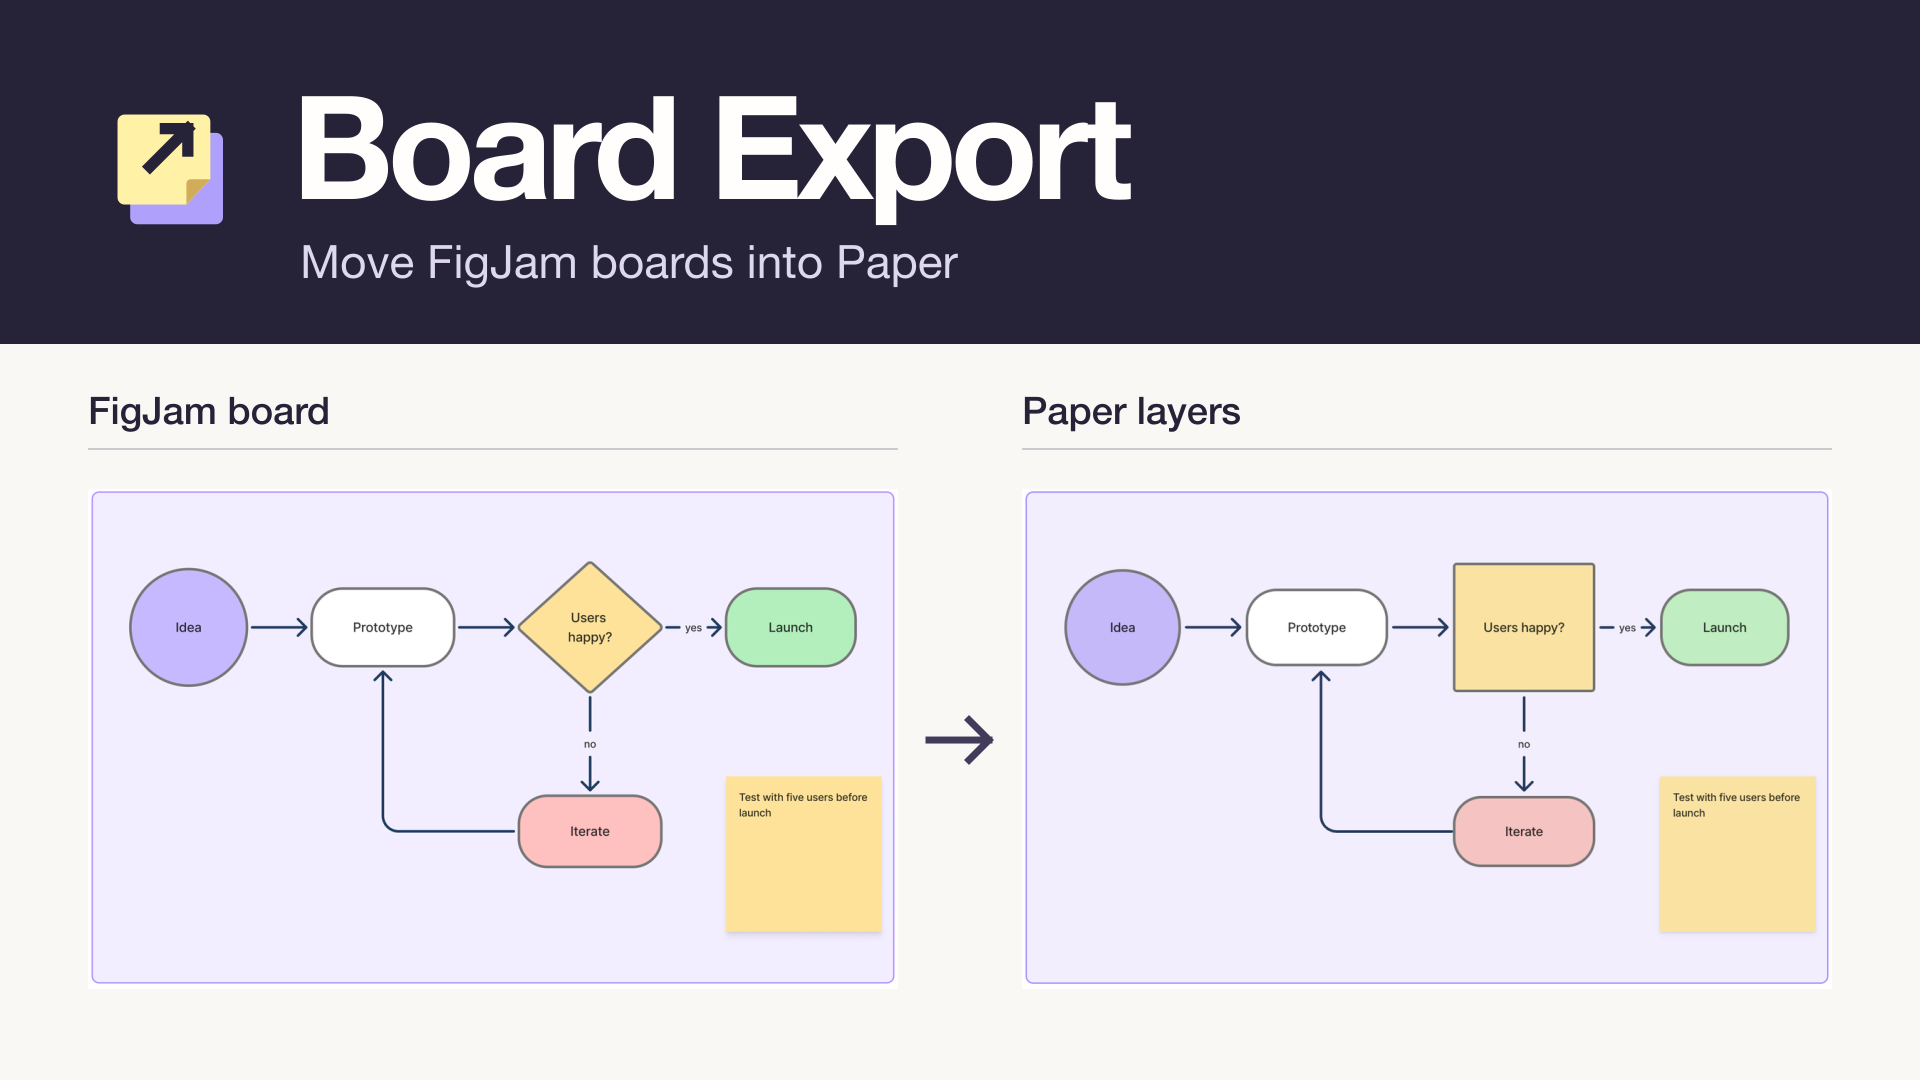
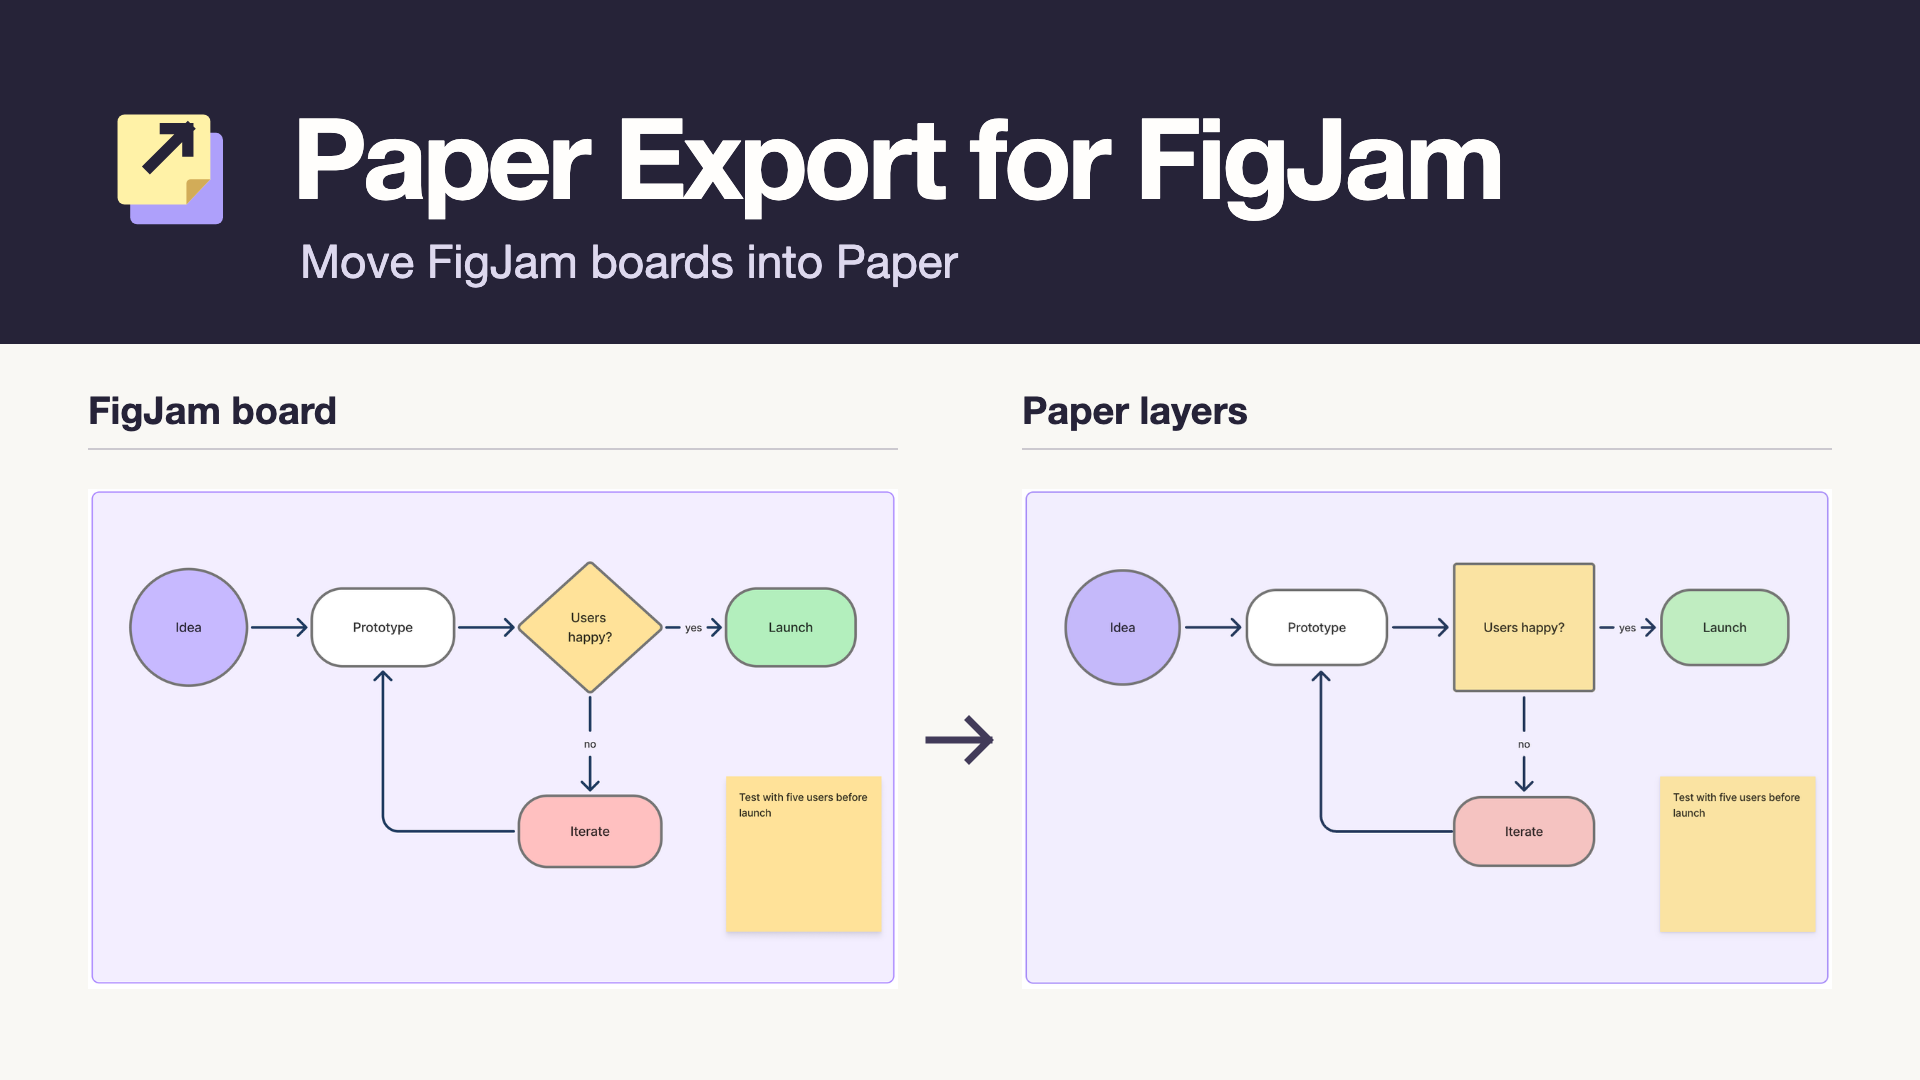
chore: rename the plugin to Paper Export for FigJam
Board Export was generic and already used by a Trello Power-Up. Figma's brand
guidelines ask for the "X for FigJam" form, so the new name follows it.
Updates the README, Community listing, plugin and demo manifests, plugin UI,
cover artwork and package name.

diff --git a/plugin/ui.html b/plugin/ui.html
@@ -1,7 +1,7 @@
 <!doctype html>
 <html lang="en">
 <meta charset="utf-8">
-<title>Board Export</title>
+<title>Paper Export for FigJam</title>
 <style>
   :root { color-scheme: light dark; font: 13px/1.45 Inter, system-ui, sans-serif; }
   body { margin: 16px; background: var(--figma-color-bg, Canvas); color: var(--figma-color-text, CanvasText); }
@@ -17,9 +17,9 @@
   #dl { background: var(--figma-color-bg-brand, #175cd3); color: var(--figma-color-text-onbrand, white); border-color: transparent; }
   textarea { position: absolute; left: -9999px; }
 </style>
-<h1>Board Export</h1>
+<h1>Paper Export for FigJam</h1>
 <p>Save this page, then run the splitter to prepare its layers for Paper.
-  <a href="https://github.com/Gonzillaaa/board-export#use-it" target="_blank" rel="noopener noreferrer">Splitter and instructions</a></p>
+  <a href="https://github.com/Gonzillaaa/paper-export-for-figjam#use-it" target="_blank" rel="noopener noreferrer">Splitter and instructions</a></p>
 <pre id="log" role="log" aria-label="Export progress"></pre>
 <div class="actions">
   <button id="dl" disabled>Download board JSON</button>

diff --git a/plugin/code.js b/plugin/code.js
@@ -1,4 +1,4 @@
-// FigJam to Paper export. Read-only: never changes the FigJam file.
+// Paper Export for FigJam. Read-only: never changes the FigJam file.
 // Converts every section on the current page (plus loose page items) to absolutely positioned HTML
 // and collects image bytes, then hands one JSON file to ui.html for download.
 // Image src values use ASSET as a placeholder; tools/split_export.py rewrites it to the real location.

diff --git a/tools/split_export.py b/tools/split_export.py
@@ -1,4 +1,4 @@
-"""Split a FigJam to Paper export into image files and HTML parts small enough to paste into Paper.
+"""Split a Paper Export for FigJam download into image files and HTML parts small enough to paste into Paper.
 
 Usage:
     python3 tools/split_export.py figjam-export.json out/ [--budget 24000] [--asset-prefix URL]

diff --git a/README.md b/README.md
@@ -1,8 +1,8 @@
-# Board Export
+# Paper Export for FigJam
 
-Move a FigJam board into Paper and keep editing its sticky notes, text and shapes. Board Export reads the current page and saves one JSON file. A local Python script turns the export into HTML parts, image files and a placement plan for Paper Desktop.
+Move a FigJam board into Paper and keep editing its sticky notes, text and shapes. Paper Export for FigJam reads the current page and saves one JSON file. A local Python script turns the export into HTML parts, image files and a placement plan for Paper Desktop.
 
-![Board Export comparing the launch diagram in FigJam and Paper](docs/community/cover.png)
+![Paper Export for FigJam comparing the launch diagram in FigJam and Paper](docs/community/cover.png)
 
 ## Use it
 
@@ -10,9 +10,9 @@ You need Figma Desktop for the development plugin, Python 3.10 or later for the 
 
 ### 1. Export the FigJam page
 
-1. Download and unpack the project, or clone it. Keep the project folders together. [Download the source ZIP](https://github.com/Gonzillaaa/board-export/archive/refs/heads/main.zip).
+1. Download and unpack the project, or clone it. Keep the project folders together. [Download the source ZIP](https://github.com/Gonzillaaa/paper-export-for-figjam/archive/refs/heads/main.zip).
 2. In Figma Desktop, choose **Plugins → Development → Import plugin from manifest** and open `plugin/manifest.json`.
-3. Open the FigJam page you want and run **Board Export**. Save `figjam-export.json`. You can also use **Download board JSON** to save another copy or **Copy board JSON** to save it through a text editor.
+3. Open the FigJam page you want and run **Paper Export for FigJam**. Save `figjam-export.json`. You can also use **Download board JSON** to save another copy or **Copy board JSON** to save it through a text editor.
 
 **Export reference PNGs** downloads a separate `figjam-reference-pngs.json` containing base64-encoded PNGs of the visible sections, keyed by section ID with the colon replaced by a hyphen. Run the splitter on the board JSON. The reference file is for visual comparison.
 
@@ -59,7 +59,7 @@ The sample board contains a team retro, a launch diagram and a loose title. On t
 
 ![The imported retrospective and launch flow with a rectangular decision and static arrows](docs/images/demo-paper.png)
 
-To recreate the sample, import `demo/build-board/manifest.json` as a separate development plugin. Run **FigJam to Paper demo board** once on an empty FigJam page. The demo builder adds objects to that page.
+To recreate the sample, import `demo/build-board/manifest.json` as a separate development plugin. Run **Paper Export demo board** once on an empty FigJam page. The demo builder adds objects to that page.
 
 ## Fidelity and limits
 
@@ -77,7 +77,7 @@ The earlier exporter was also exercised on a board with 15 sections, 548 top-lev
 
 ## Data and permissions
 
-Board Export reads the current page. Its manifest disables network access. The splitter runs locally. The JSON, clipboard and output folder contain the exported board content, including images. The Paper import is a separate step that sends the chosen content to Paper and may also share it with your selected agent.
+Paper Export for FigJam reads the current page. Its manifest disables network access. The splitter runs locally. The JSON, clipboard and output folder contain the exported board content, including images. The Paper import is a separate step that sends the chosen content to Paper and may also share it with your selected agent.
 
 ## Development
 
@@ -94,6 +94,6 @@ The JavaScript suite exercises the plugin and UI with Figma and browser boundary
 
 ## Support and license
 
-Report the plugin version or commit, the operation that failed, and the message shown. A minimal synthetic board is enough to demonstrate most issues. [GitHub Issues](https://github.com/Gonzillaaa/board-export/issues).
+Report the plugin version or commit, the operation that failed, and the message shown. A minimal synthetic board is enough to demonstrate most issues. [GitHub Issues](https://github.com/Gonzillaaa/paper-export-for-figjam/issues).
 
 The source is available under the [MIT License](LICENSE). Maintainers can find the [Community listing and artwork](docs/community/listing.md) alongside the screenshots.

diff --git a/docs/community/listing.md b/docs/community/listing.md
@@ -1,26 +1,26 @@
-# Board Export on Figma Community
+# Paper Export for FigJam on Figma Community
 
 | Field | Value |
 | --- | --- |
-| Name | Board Export |
+| Name | Paper Export for FigJam |
 | Tagline | Move FigJam boards into Paper |
 | Suggested category | Design tools |
-| Support | [GitHub Issues](https://github.com/Gonzillaaa/board-export/issues) |
-| Instructions and splitter | [Project README](https://github.com/Gonzillaaa/board-export#use-it) |
+| Support | [GitHub Issues](https://github.com/Gonzillaaa/paper-export-for-figjam/issues) |
+| Instructions and splitter | [Project README](https://github.com/Gonzillaaa/paper-export-for-figjam#use-it) |
 | Icon | [128 × 128 PNG](icon.png) |
 | Cover | [1920 × 1080 PNG](cover.png) |
 
 ## Description
 
-Bring a workshop into Paper with its sticky notes, text and layout in place. Board Export saves the visible sections and loose items on your current FigJam page as one JSON file. Your FigJam board stays untouched.
+Bring a workshop into Paper with its sticky notes, text and layout in place. Paper Export for FigJam saves the visible sections and loose items on your current FigJam page as one JSON file. Your FigJam board stays untouched.
 
 Run the companion Python splitter on the download, then use an agent connected to Paper Desktop to import the generated layers. Notes and text remain editable. Photos become image layers, connectors become static graphics, and decision diamonds become rectangles.
 
-You’ll need Python 3.10 or later, the free splitter and a Paper Desktop MCP connection. The plugin has no network access. [Get the splitter and follow the walkthrough](https://github.com/Gonzillaaa/board-export#use-it).
+You’ll need Python 3.10 or later, the free splitter and a Paper Desktop MCP connection. The plugin has no network access. [Get the splitter and follow the walkthrough](https://github.com/Gonzillaaa/paper-export-for-figjam#use-it).
 
 ## Submission
 
-1. Run the tests in the README. In Figma Desktop, run Board Export on the demo page, save the JSON and split it into an empty folder. The demo produces three plan entries with 9, 11 and 1 top-level items. Check the imported artboards in Paper.
-2. In **Plugins → Manage plugins**, open **Publish** for Board Export. Use the name, tagline, description and category above. Upload the PNG icon and cover. Both have editable SVG sources in this directory. The cover uses the repository’s original demo screenshots.
+1. Run the tests in the README. In Figma Desktop, run Paper Export for FigJam on the demo page, save the JSON and split it into an empty folder. The demo produces three plan entries with 9, 11 and 1 top-level items. Check the imported artboards in Paper.
+2. In **Plugins → Manage plugins**, open **Publish** for Paper Export for FigJam. Use the name, tagline, description and category above. Upload the PNG icon and cover. Both have editable SVG sources in this directory. The cover uses the repository’s original demo screenshots.
 3. Enter the GitHub Issues URL in the support field. Verify that the manifest ID matches the one Figma assigned and that Figma displays **No network access**.
 4. The publishing account must have two-factor authentication enabled. The publisher selects the author, reviews the Community terms and submits the plugin when ready. [Figma’s publishing guide](https://help.figma.com/hc/en-us/articles/360042293394-Publish-classic-plugins-to-the-Figma-Community).
